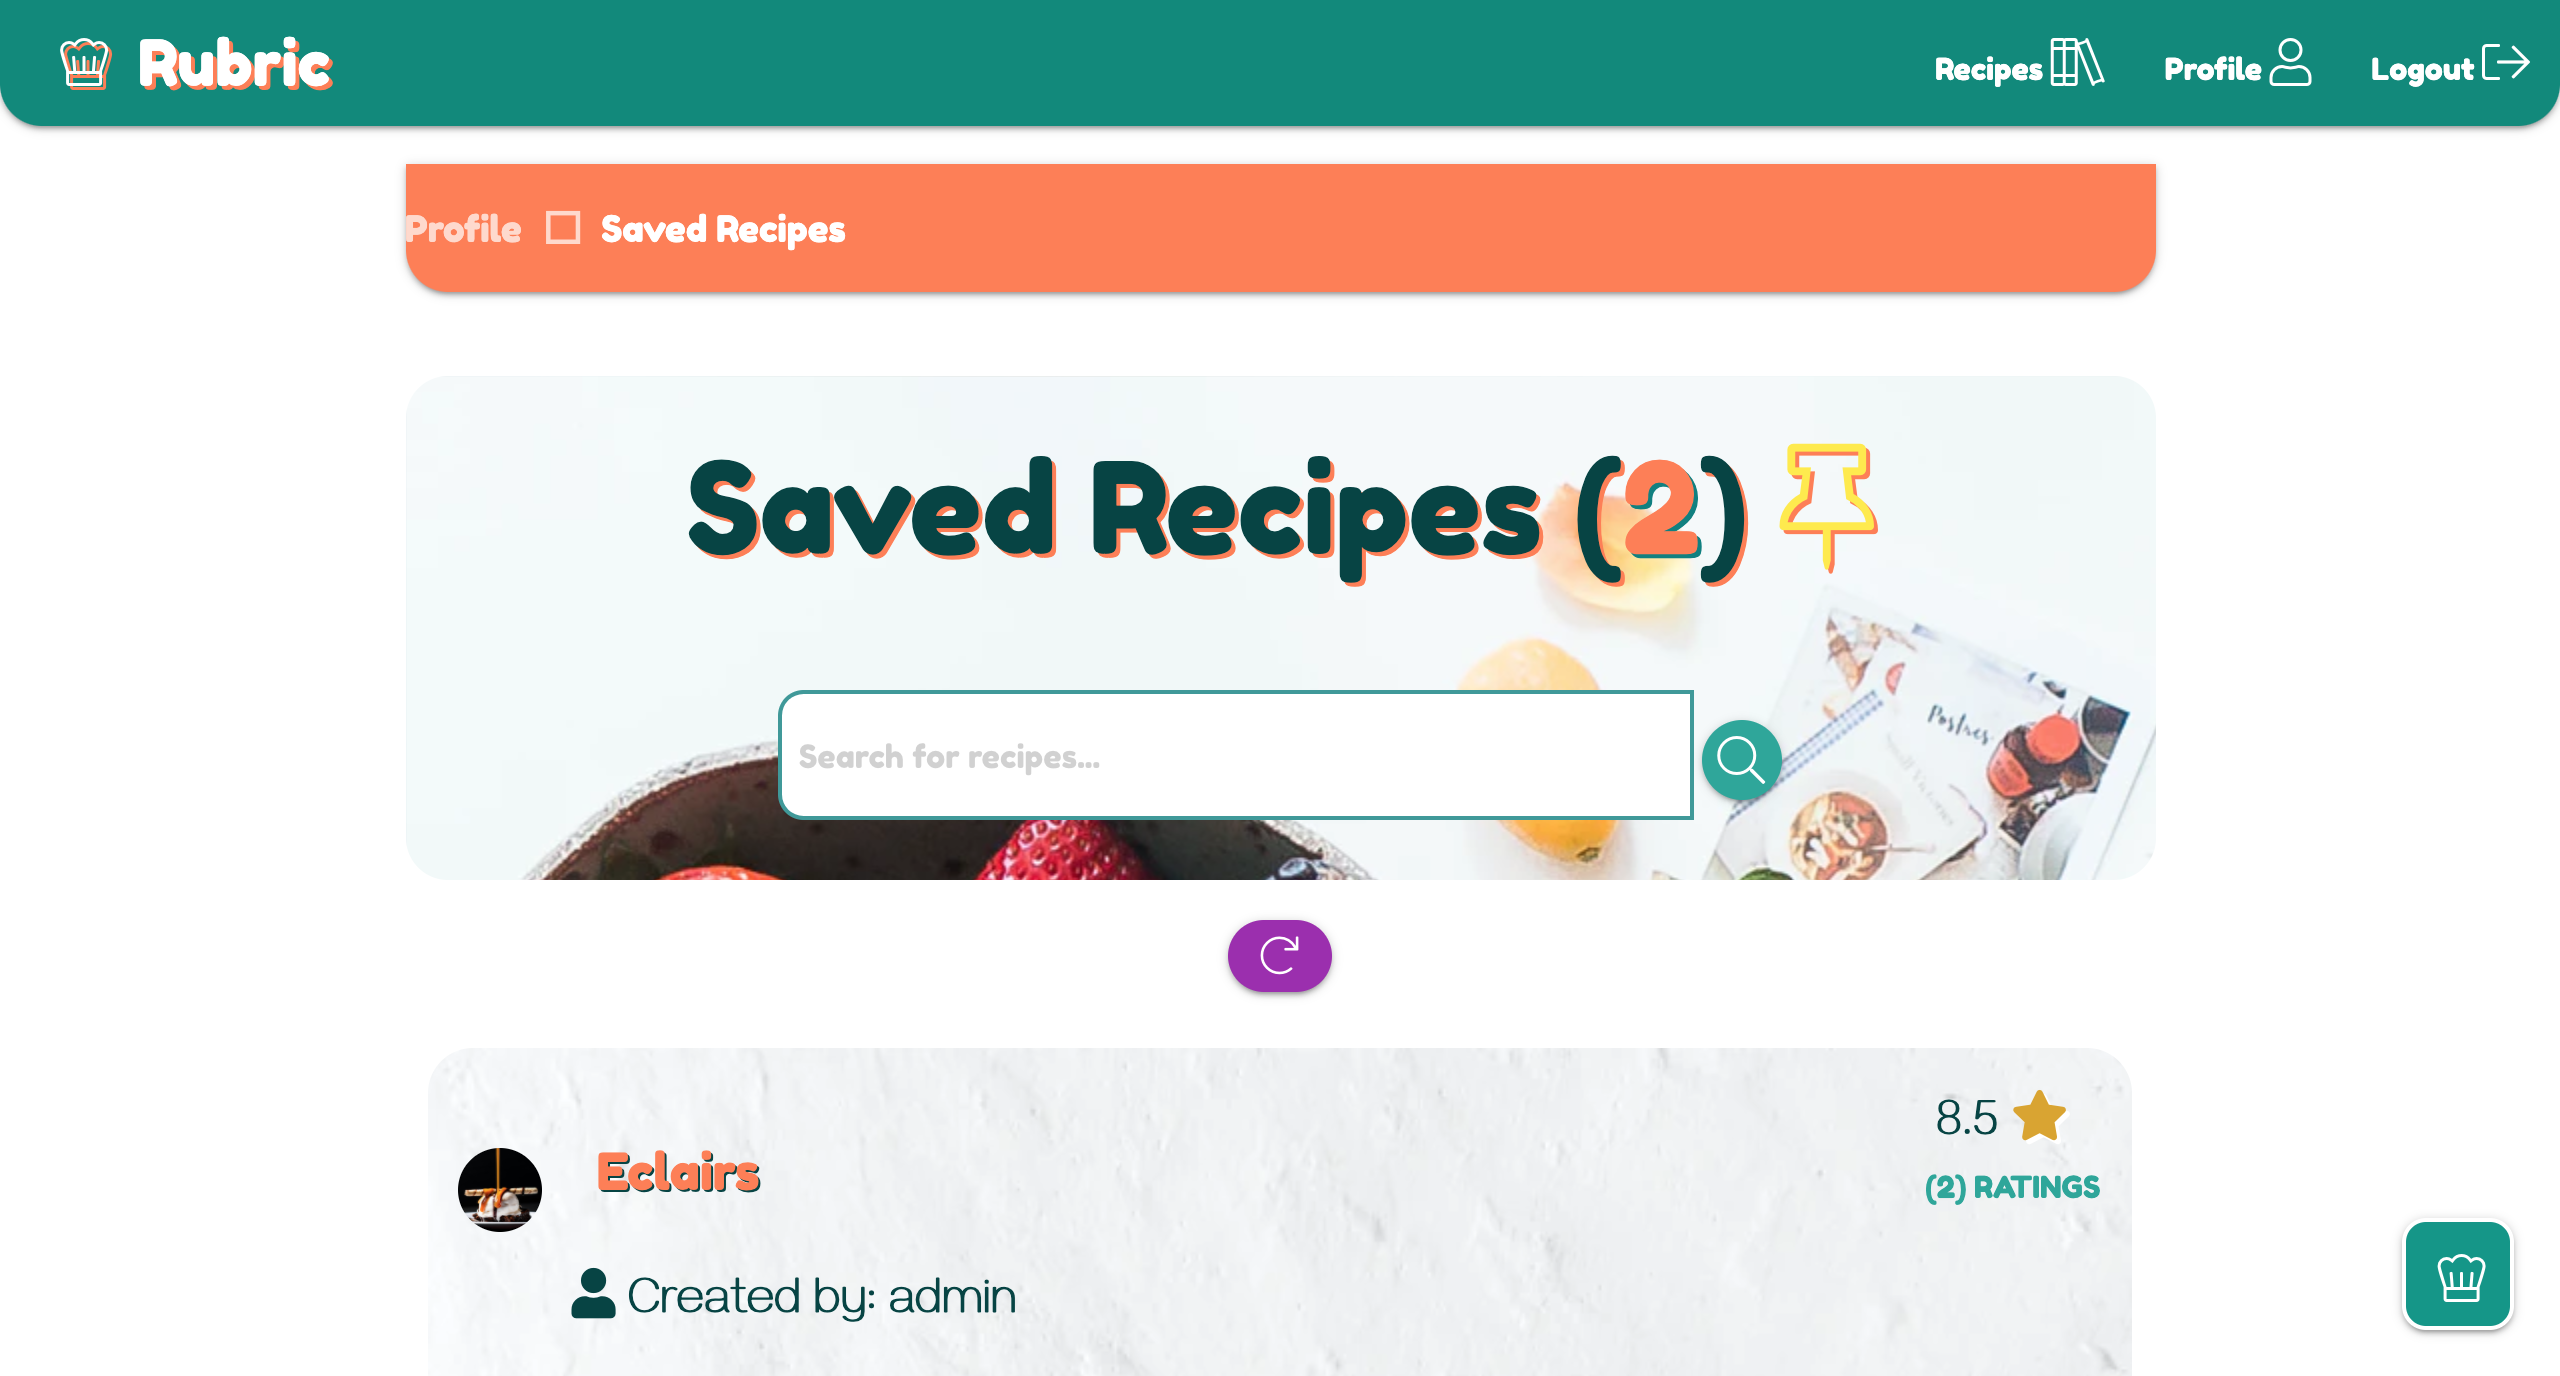
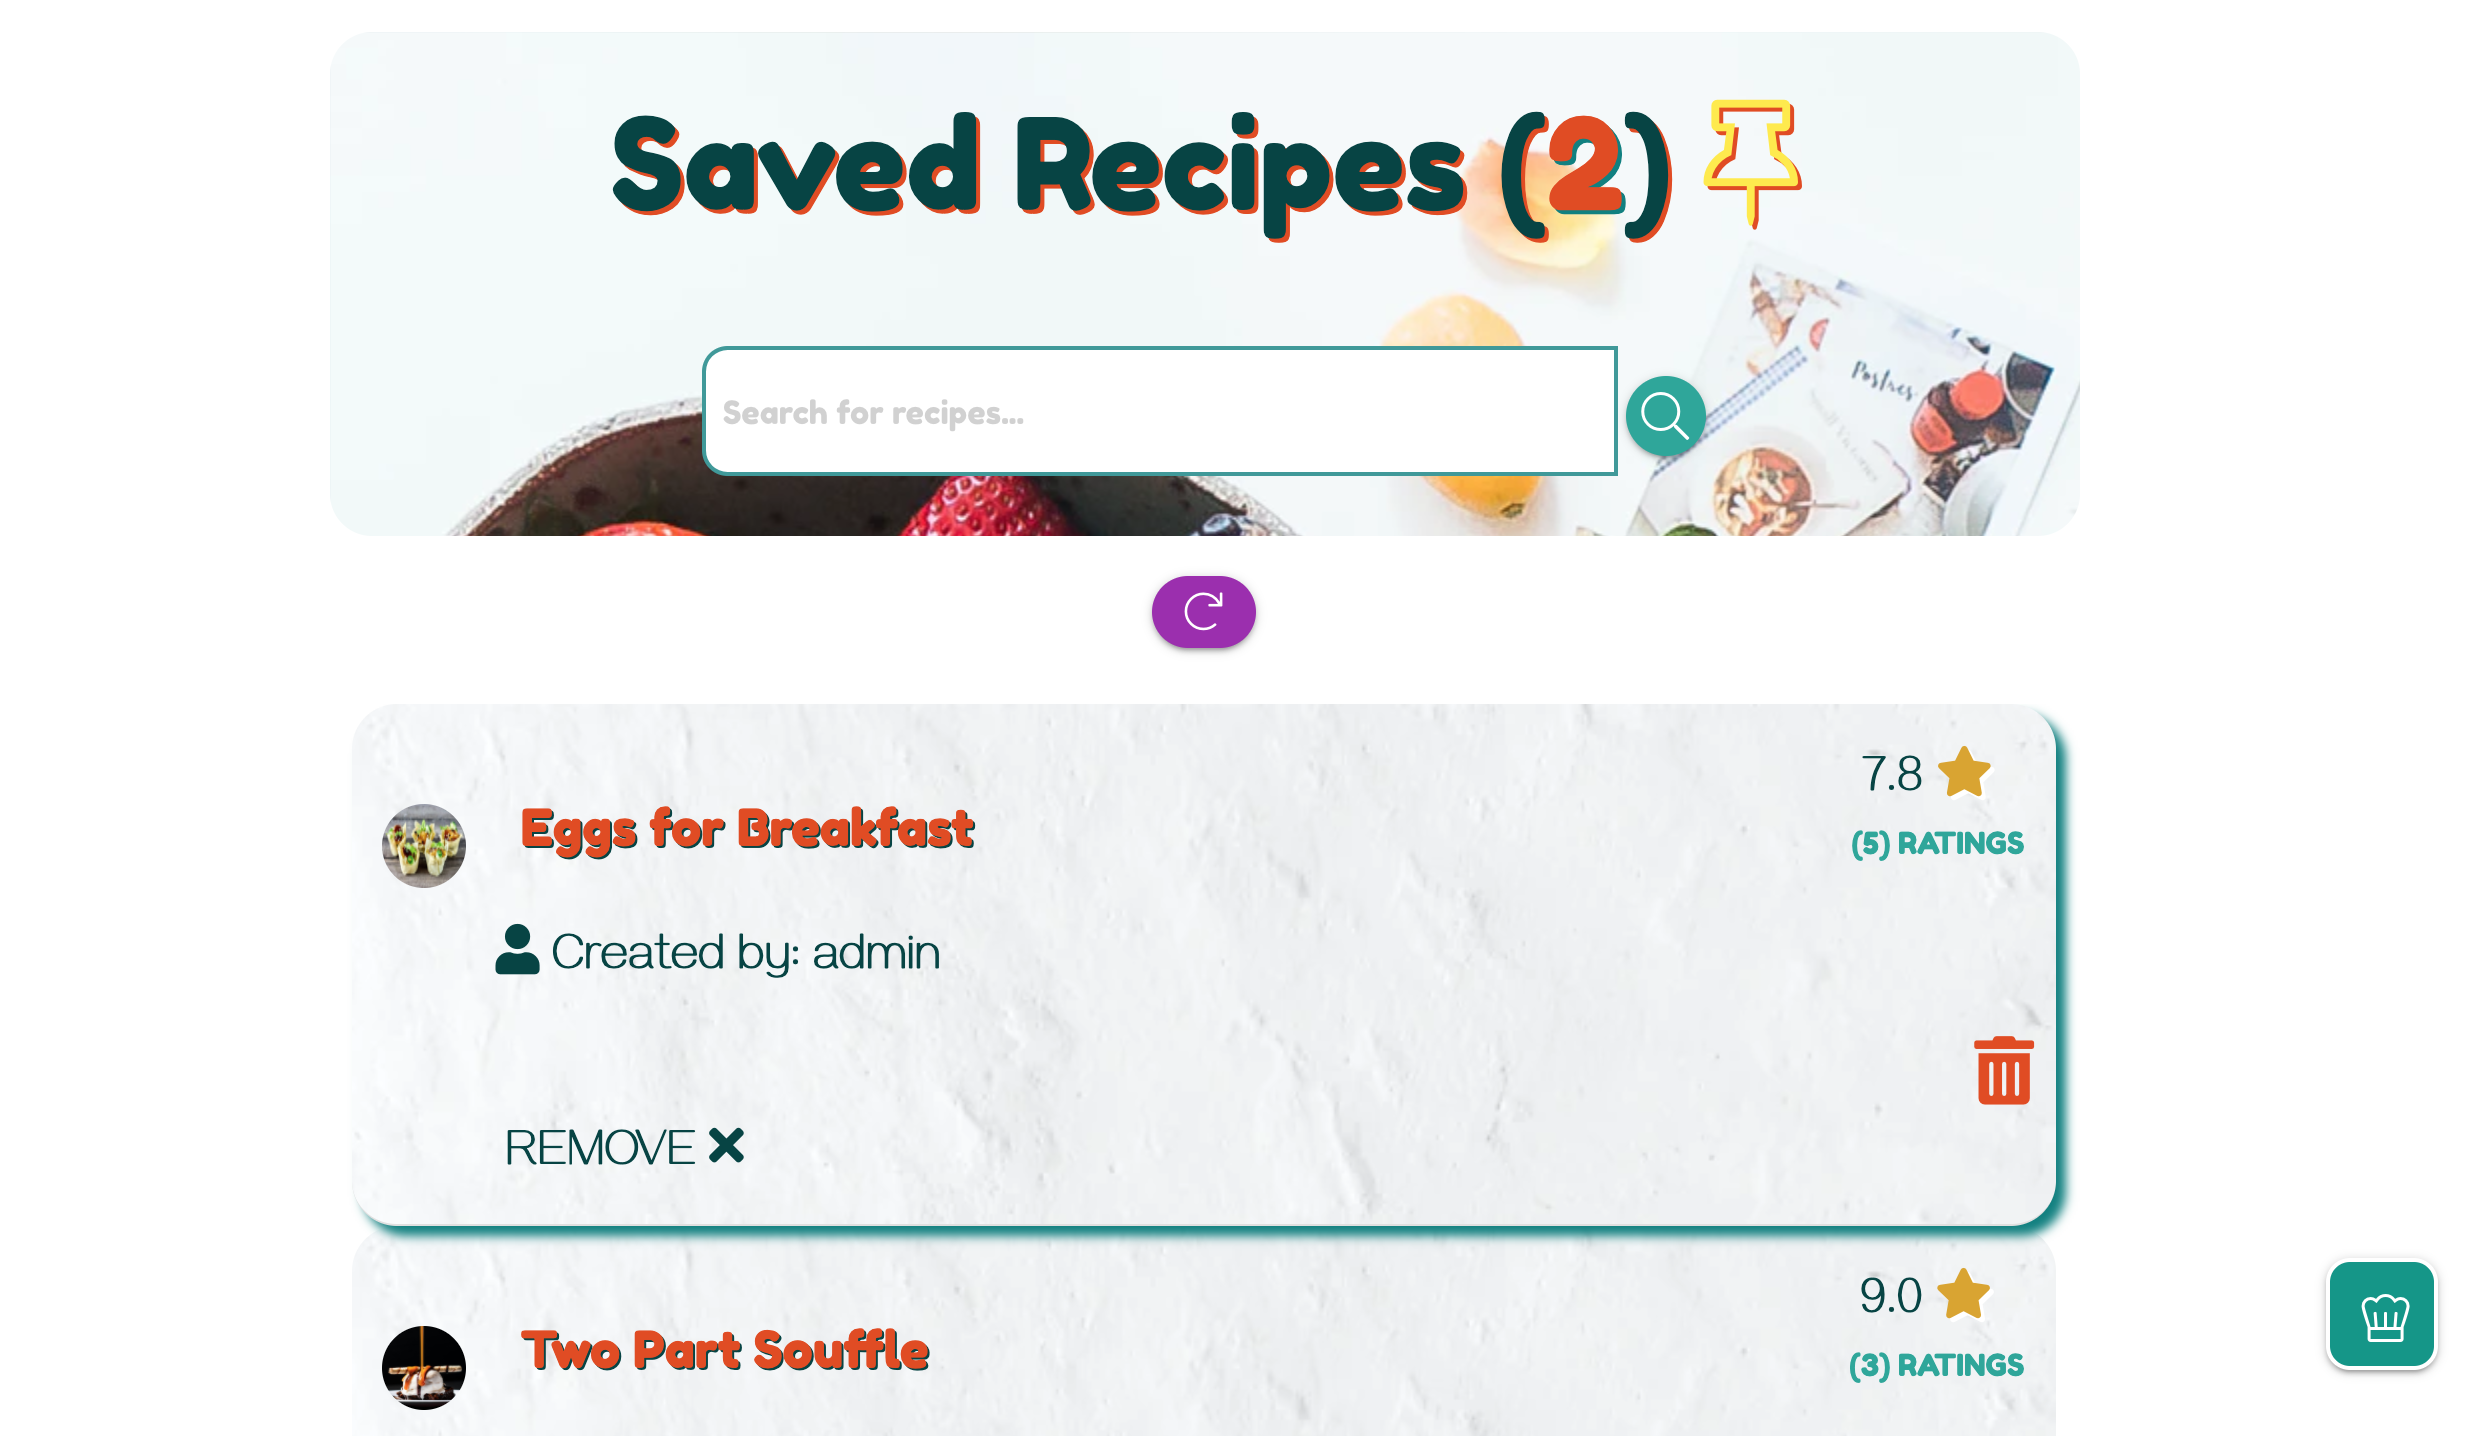
Saved recipes page detailed in readme file

diff --git a/README.md b/README.md
@@ -315,6 +315,10 @@ On the recipe cards displayed there are buttons to edit (blue) or delete (red) t
 
 <img style="width:100%"  src="documents/screenshots/my_recipes.png">
 
+## **Saved Recipes**
+
+<img style="width:100%"  src="documents/screenshots/saved_recipes.png">
+
 ## **Create/Add recipes**
 The ADD RECIPE button in 'My Recipes' and the Floating Menu ADD RECIPE Button (Green) direct the user here.
 
